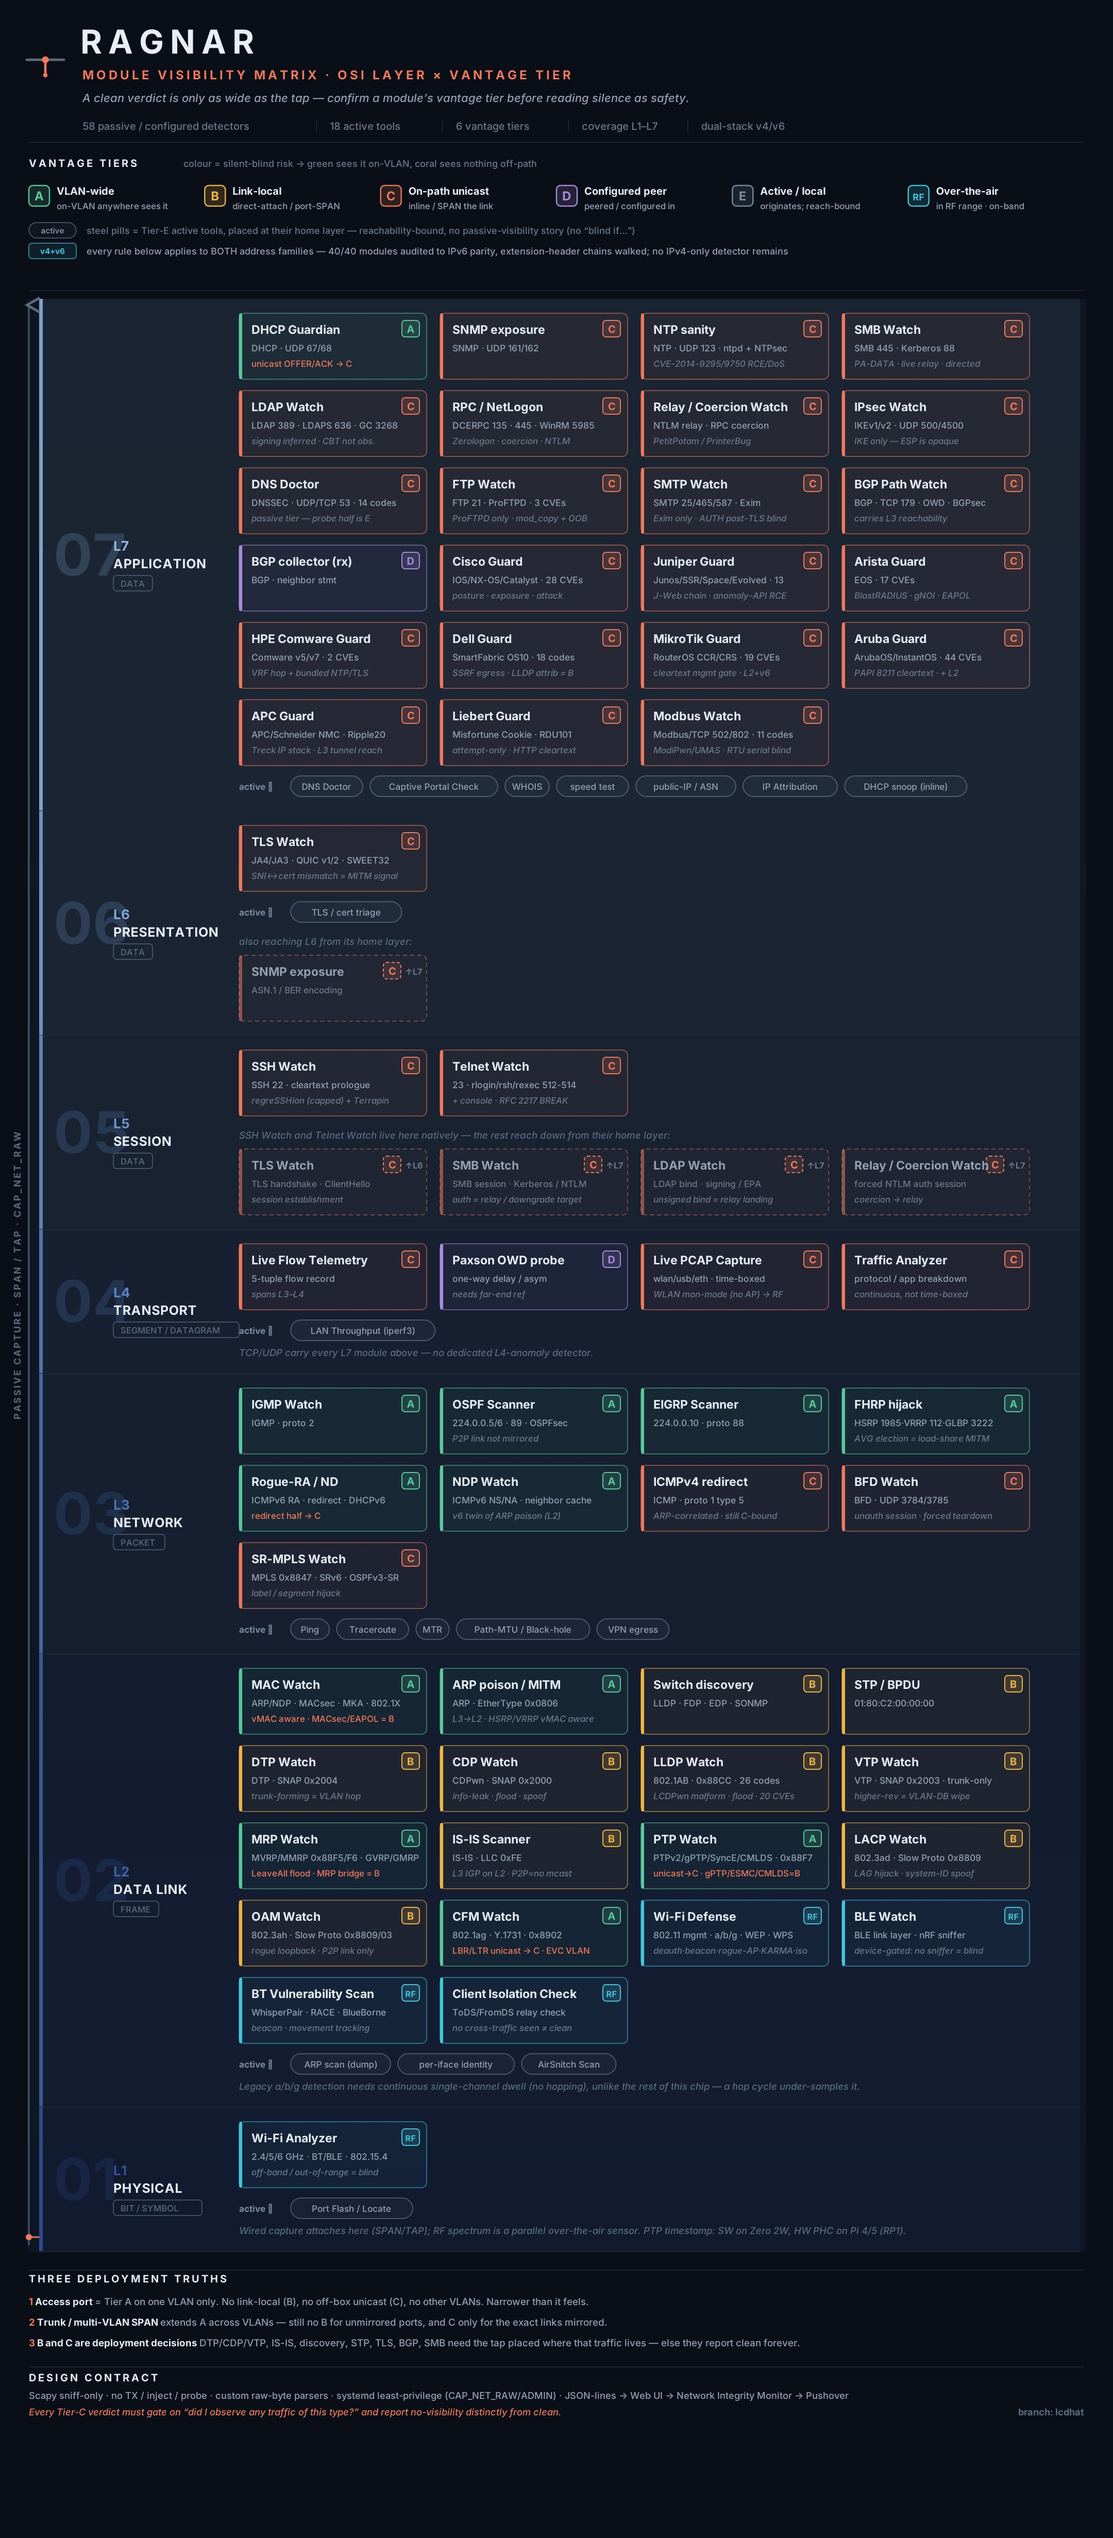
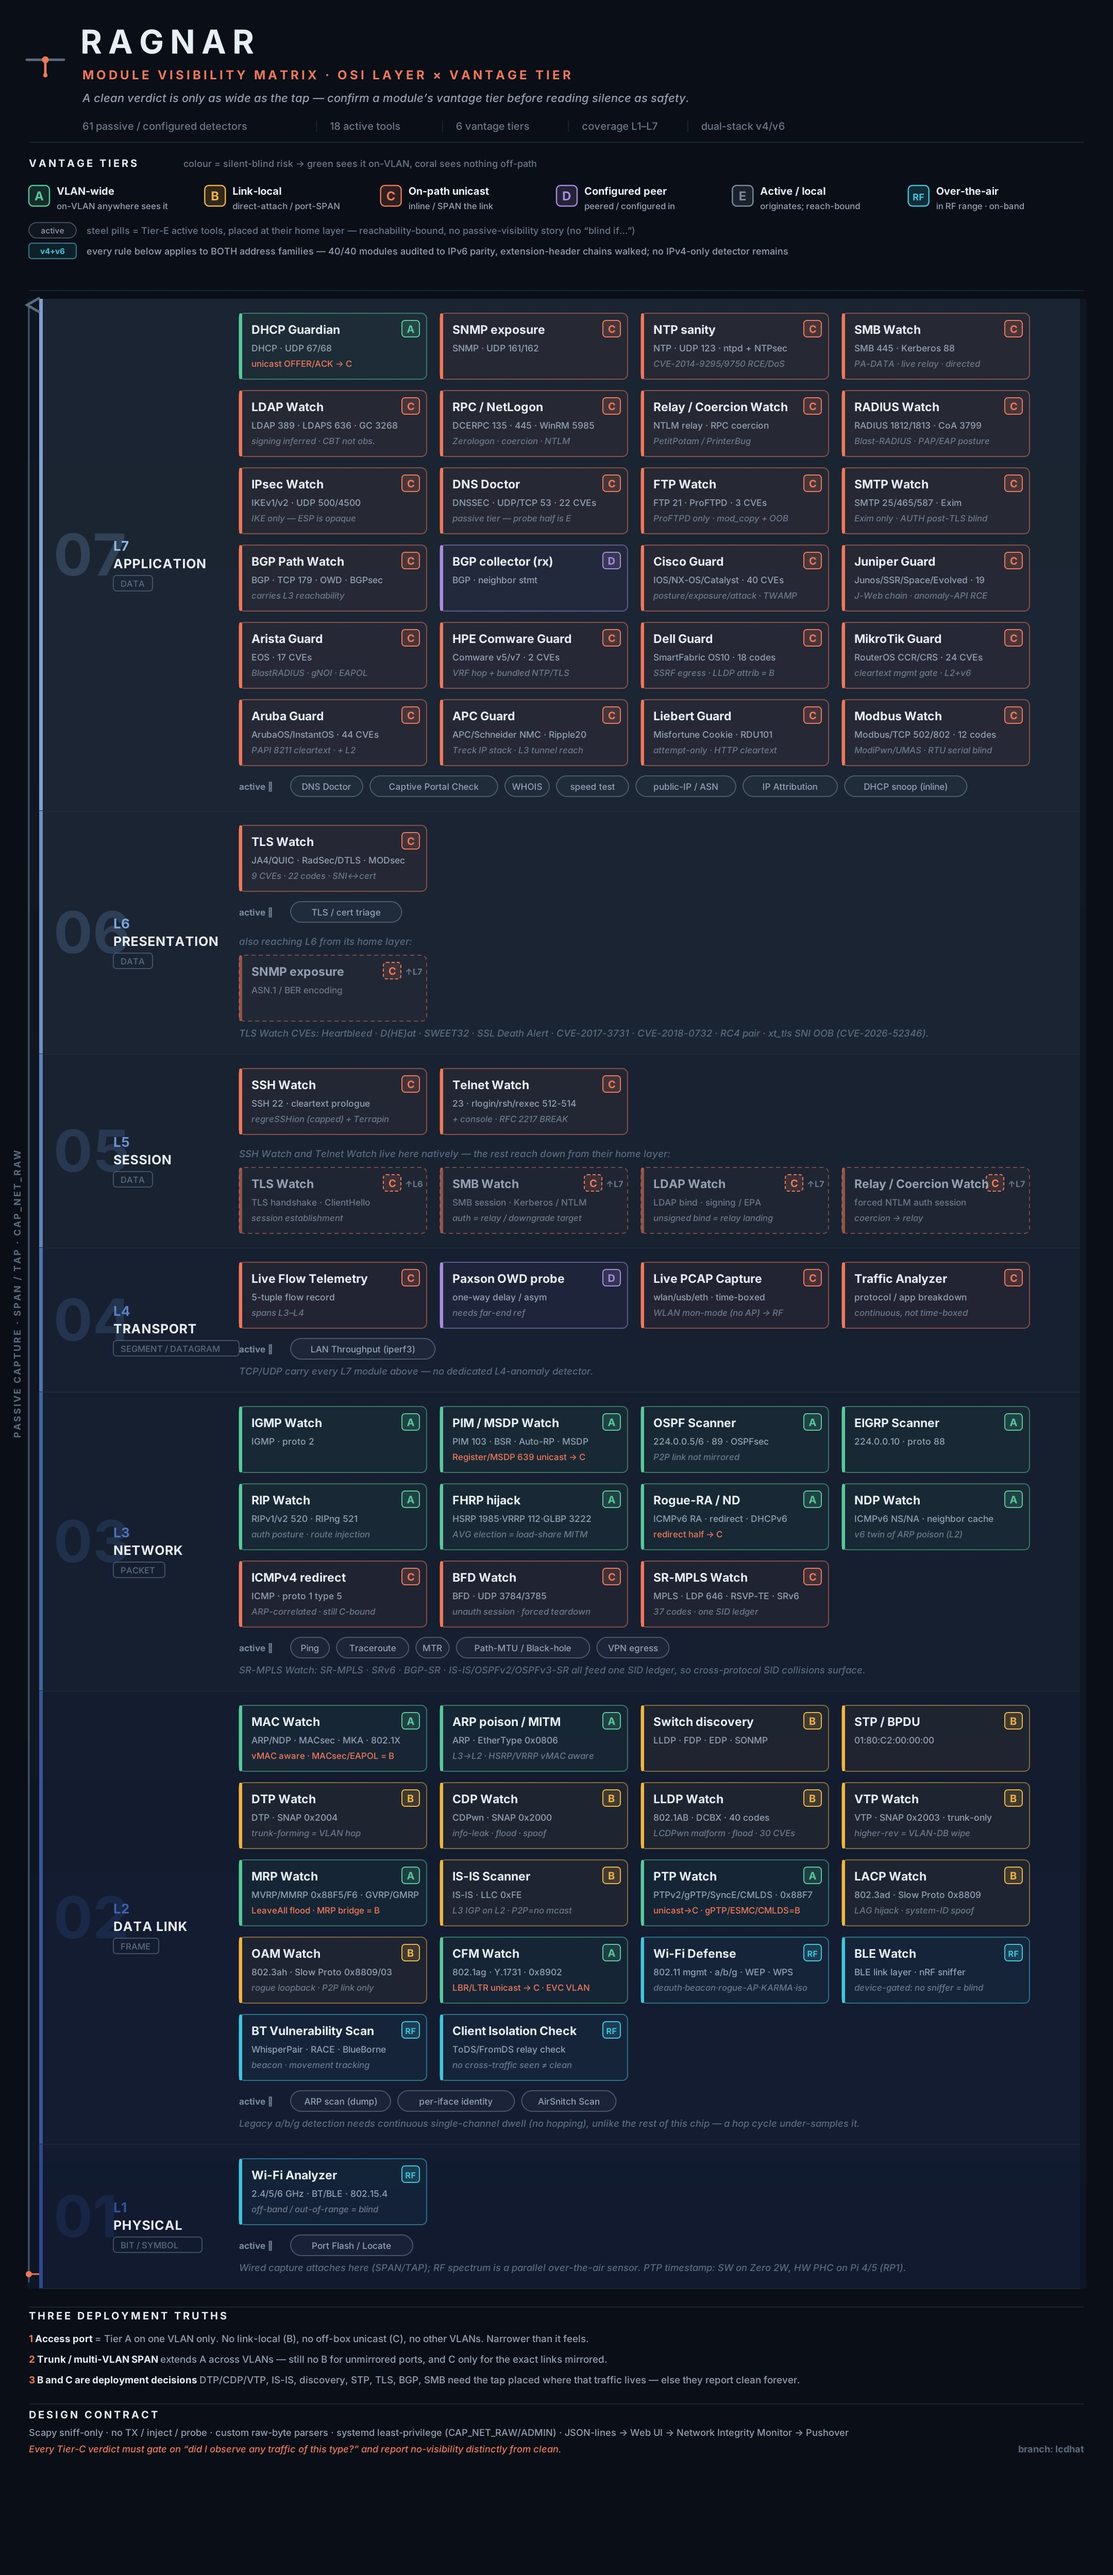
docs(net): refresh OSI visibility matrix graphic (current module set)
Update the Module visibility matrix reference (OSI layer x vantage tier) to the
current module set: new full image (web/images/osi/matrix_full.jpg), all seven
per-layer bands (matrix_l1..l7.jpg) re-sliced from it, and the docs copy
(docs/ragnar_osi_visibility_matrix.jpg). Image cache-bust bumped to
?v=20261018-mikrotik-v3 across the Overview card and every layer panel.

diff --git a/web/index_modern.html b/web/index_modern.html
@@ -1886,8 +1886,8 @@
                         <!-- Visibility matrix reference (overview) -->
                         <details class="glass rounded-xl p-3 sm:p-4 md:col-span-2" ontoggle="netMatrixLoad(this)">
                             <summary class="cursor-pointer select-none text-sm font-semibold text-gray-300 hover:text-white">Module visibility matrix <span class="text-xs font-normal text-gray-500">— reference guide · every module by OSI layer × vantage tier</span></summary>
-                            <a href="/web/images/osi/matrix_full.jpg?v=20261016-pim-msdp-igmp-v5" target="_blank" rel="noopener" title="Open the full matrix">
-                                <img data-src="/web/images/osi/matrix_full.jpg?v=20261016-pim-msdp-igmp-v5" alt="Ragnar module visibility matrix: every module by OSI layer and vantage tier" class="block w-full h-auto rounded-lg mt-3">
+                            <a href="/web/images/osi/matrix_full.jpg?v=20261018-mikrotik-v3" target="_blank" rel="noopener" title="Open the full matrix">
+                                <img data-src="/web/images/osi/matrix_full.jpg?v=20261018-mikrotik-v3" alt="Ragnar module visibility matrix: every module by OSI layer and vantage tier" class="block w-full h-auto rounded-lg mt-3">
                             </a>
                             <p class="text-xs text-gray-500 mt-2">A clean verdict is only as wide as the tap: check a module's vantage tier before reading silence as safety. Each layer button above shows its own band of this matrix. Card letters are the vantage tier: <strong>A</strong> VLAN-wide · <strong>B</strong> link-local · <strong>C</strong> on-path unicast · <strong>D</strong> configured peer · <strong>E</strong> active / local · <strong>RF</strong> over-the-air. Tap the image to open it full-size.</p>
                         </details>
@@ -2019,8 +2019,8 @@
                         <!-- Visibility matrix reference (l7) -->
                         <details class="glass rounded-xl p-3 sm:p-4 md:col-span-2" ontoggle="netMatrixLoad(this)">
                             <summary class="cursor-pointer select-none text-sm font-semibold text-gray-300 hover:text-white">Visibility matrix · L7 Application <span class="text-xs font-normal text-gray-500">— what a tap must see for each module here</span></summary>
-                            <a href="/web/images/osi/matrix_full.jpg?v=20261016-pim-msdp-igmp-v5" target="_blank" rel="noopener" title="Open the full matrix">
-                                <img data-src="/web/images/osi/matrix_l7.jpg?v=20261016-pim-msdp-igmp-v5" alt="Module visibility matrix, L7 Application band" class="block w-full h-auto rounded-lg mt-3">
+                            <a href="/web/images/osi/matrix_full.jpg?v=20261018-mikrotik-v3" target="_blank" rel="noopener" title="Open the full matrix">
+                                <img data-src="/web/images/osi/matrix_l7.jpg?v=20261018-mikrotik-v3" alt="Module visibility matrix, L7 Application band" class="block w-full h-auto rounded-lg mt-3">
                             </a>
                             <p class="text-xs text-gray-500 mt-2">Card letters are the vantage tier: <strong>A</strong> VLAN-wide · <strong>B</strong> link-local · <strong>C</strong> on-path unicast · <strong>D</strong> configured peer · <strong>E</strong> active / local · <strong>RF</strong> over-the-air. Tap the image for the full matrix (all layers).</p>
                         </details>
@@ -2537,8 +2537,8 @@
                         <!-- Visibility matrix reference (l6) -->
                         <details class="glass rounded-xl p-3 sm:p-4 md:col-span-2" ontoggle="netMatrixLoad(this)">
                             <summary class="cursor-pointer select-none text-sm font-semibold text-gray-300 hover:text-white">Visibility matrix · L6 Presentation <span class="text-xs font-normal text-gray-500">— what a tap must see for each module here</span></summary>
-                            <a href="/web/images/osi/matrix_full.jpg?v=20261016-pim-msdp-igmp-v5" target="_blank" rel="noopener" title="Open the full matrix">
-                                <img data-src="/web/images/osi/matrix_l6.jpg?v=20261016-pim-msdp-igmp-v5" alt="Module visibility matrix, L6 Presentation band" class="block w-full h-auto rounded-lg mt-3">
+                            <a href="/web/images/osi/matrix_full.jpg?v=20261018-mikrotik-v3" target="_blank" rel="noopener" title="Open the full matrix">
+                                <img data-src="/web/images/osi/matrix_l6.jpg?v=20261018-mikrotik-v3" alt="Module visibility matrix, L6 Presentation band" class="block w-full h-auto rounded-lg mt-3">
                             </a>
                             <p class="text-xs text-gray-500 mt-2">Card letters are the vantage tier: <strong>A</strong> VLAN-wide · <strong>B</strong> link-local · <strong>C</strong> on-path unicast · <strong>D</strong> configured peer · <strong>E</strong> active / local · <strong>RF</strong> over-the-air. Tap the image for the full matrix (all layers).</p>
                         </details>
@@ -2589,8 +2589,8 @@
                         <!-- Visibility matrix reference (l5) -->
                         <details class="glass rounded-xl p-3 sm:p-4 md:col-span-2" ontoggle="netMatrixLoad(this)">
                             <summary class="cursor-pointer select-none text-sm font-semibold text-gray-300 hover:text-white">Visibility matrix · L5 Session <span class="text-xs font-normal text-gray-500">— what a tap must see for each module here</span></summary>
-                            <a href="/web/images/osi/matrix_full.jpg?v=20261016-pim-msdp-igmp-v5" target="_blank" rel="noopener" title="Open the full matrix">
-                                <img data-src="/web/images/osi/matrix_l5.jpg?v=20261016-pim-msdp-igmp-v5" alt="Module visibility matrix, L5 Session band" class="block w-full h-auto rounded-lg mt-3">
+                            <a href="/web/images/osi/matrix_full.jpg?v=20261018-mikrotik-v3" target="_blank" rel="noopener" title="Open the full matrix">
+                                <img data-src="/web/images/osi/matrix_l5.jpg?v=20261018-mikrotik-v3" alt="Module visibility matrix, L5 Session band" class="block w-full h-auto rounded-lg mt-3">
                             </a>
                             <p class="text-xs text-gray-500 mt-2">Card letters are the vantage tier: <strong>A</strong> VLAN-wide · <strong>B</strong> link-local · <strong>C</strong> on-path unicast · <strong>D</strong> configured peer · <strong>E</strong> active / local · <strong>RF</strong> over-the-air. Tap the image for the full matrix (all layers).</p>
                         </details>
@@ -2634,8 +2634,8 @@
                         <!-- Visibility matrix reference (l4) -->
                         <details class="glass rounded-xl p-3 sm:p-4 md:col-span-2" ontoggle="netMatrixLoad(this)">
                             <summary class="cursor-pointer select-none text-sm font-semibold text-gray-300 hover:text-white">Visibility matrix · L4 Transport <span class="text-xs font-normal text-gray-500">— what a tap must see for each module here</span></summary>
-                            <a href="/web/images/osi/matrix_full.jpg?v=20261016-pim-msdp-igmp-v5" target="_blank" rel="noopener" title="Open the full matrix">
-                                <img data-src="/web/images/osi/matrix_l4.jpg?v=20261016-pim-msdp-igmp-v5" alt="Module visibility matrix, L4 Transport band" class="block w-full h-auto rounded-lg mt-3">
+                            <a href="/web/images/osi/matrix_full.jpg?v=20261018-mikrotik-v3" target="_blank" rel="noopener" title="Open the full matrix">
+                                <img data-src="/web/images/osi/matrix_l4.jpg?v=20261018-mikrotik-v3" alt="Module visibility matrix, L4 Transport band" class="block w-full h-auto rounded-lg mt-3">
                             </a>
                             <p class="text-xs text-gray-500 mt-2">Card letters are the vantage tier: <strong>A</strong> VLAN-wide · <strong>B</strong> link-local · <strong>C</strong> on-path unicast · <strong>D</strong> configured peer · <strong>E</strong> active / local · <strong>RF</strong> over-the-air. Tap the image for the full matrix (all layers).</p>
                         </details>
@@ -2681,8 +2681,8 @@
                         <!-- Visibility matrix reference (l3) -->
                         <details class="glass rounded-xl p-3 sm:p-4 md:col-span-2" ontoggle="netMatrixLoad(this)">
                             <summary class="cursor-pointer select-none text-sm font-semibold text-gray-300 hover:text-white">Visibility matrix · L3 Network <span class="text-xs font-normal text-gray-500">— what a tap must see for each module here</span></summary>
-                            <a href="/web/images/osi/matrix_full.jpg?v=20261016-pim-msdp-igmp-v5" target="_blank" rel="noopener" title="Open the full matrix">
-                                <img data-src="/web/images/osi/matrix_l3.jpg?v=20261016-pim-msdp-igmp-v5" alt="Module visibility matrix, L3 Network band" class="block w-full h-auto rounded-lg mt-3">
+                            <a href="/web/images/osi/matrix_full.jpg?v=20261018-mikrotik-v3" target="_blank" rel="noopener" title="Open the full matrix">
+                                <img data-src="/web/images/osi/matrix_l3.jpg?v=20261018-mikrotik-v3" alt="Module visibility matrix, L3 Network band" class="block w-full h-auto rounded-lg mt-3">
                             </a>
                             <p class="text-xs text-gray-500 mt-2">Card letters are the vantage tier: <strong>A</strong> VLAN-wide · <strong>B</strong> link-local · <strong>C</strong> on-path unicast · <strong>D</strong> configured peer · <strong>E</strong> active / local · <strong>RF</strong> over-the-air. Tap the image for the full matrix (all layers).</p>
                         </details>
@@ -2925,8 +2925,8 @@
                         <!-- Visibility matrix reference (l2) -->
                         <details class="glass rounded-xl p-3 sm:p-4 md:col-span-2" ontoggle="netMatrixLoad(this)">
                             <summary class="cursor-pointer select-none text-sm font-semibold text-gray-300 hover:text-white">Visibility matrix · L2 Data Link <span class="text-xs font-normal text-gray-500">— what a tap must see for each module here</span></summary>
-                            <a href="/web/images/osi/matrix_full.jpg?v=20261016-pim-msdp-igmp-v5" target="_blank" rel="noopener" title="Open the full matrix">
-                                <img data-src="/web/images/osi/matrix_l2.jpg?v=20261016-pim-msdp-igmp-v5" alt="Module visibility matrix, L2 Data Link band" class="block w-full h-auto rounded-lg mt-3">
+                            <a href="/web/images/osi/matrix_full.jpg?v=20261018-mikrotik-v3" target="_blank" rel="noopener" title="Open the full matrix">
+                                <img data-src="/web/images/osi/matrix_l2.jpg?v=20261018-mikrotik-v3" alt="Module visibility matrix, L2 Data Link band" class="block w-full h-auto rounded-lg mt-3">
                             </a>
                             <p class="text-xs text-gray-500 mt-2">Card letters are the vantage tier: <strong>A</strong> VLAN-wide · <strong>B</strong> link-local · <strong>C</strong> on-path unicast · <strong>D</strong> configured peer · <strong>E</strong> active / local · <strong>RF</strong> over-the-air. Tap the image for the full matrix (all layers).</p>
                         </details>
@@ -3231,8 +3231,8 @@
                         <!-- Visibility matrix reference (l1) -->
                         <details class="glass rounded-xl p-3 sm:p-4 md:col-span-2" ontoggle="netMatrixLoad(this)">
                             <summary class="cursor-pointer select-none text-sm font-semibold text-gray-300 hover:text-white">Visibility matrix · L1 Physical <span class="text-xs font-normal text-gray-500">— what a tap must see for each module here</span></summary>
-                            <a href="/web/images/osi/matrix_full.jpg?v=20261016-pim-msdp-igmp-v5" target="_blank" rel="noopener" title="Open the full matrix">
-                                <img data-src="/web/images/osi/matrix_l1.jpg?v=20261016-pim-msdp-igmp-v5" alt="Module visibility matrix, L1 Physical band" class="block w-full h-auto rounded-lg mt-3">
+                            <a href="/web/images/osi/matrix_full.jpg?v=20261018-mikrotik-v3" target="_blank" rel="noopener" title="Open the full matrix">
+                                <img data-src="/web/images/osi/matrix_l1.jpg?v=20261018-mikrotik-v3" alt="Module visibility matrix, L1 Physical band" class="block w-full h-auto rounded-lg mt-3">
                             </a>
                             <p class="text-xs text-gray-500 mt-2">Card letters are the vantage tier: <strong>A</strong> VLAN-wide · <strong>B</strong> link-local · <strong>C</strong> on-path unicast · <strong>D</strong> configured peer · <strong>E</strong> active / local · <strong>RF</strong> over-the-air. Tap the image for the full matrix (all layers).</p>
                         </details>

diff --git a/docs/releases.md b/docs/releases.md
@@ -13,7 +13,8 @@
 - **Two further v3 CVEs are routed, not duplicated here:** the **xt_tls SNI `host_name` over-read** (CVE-2026-52346 → **TLS Watch**) and the **labelled-VPN MP_REACH NLRI** under-flow (CVE-2026-93345 → **BGP Path Watch**), each handled where the decoder already lives. `MTK-C02` / `MTK-C03` remain deferred (cross-flow / cross-time correlations; `MTK-C02` also needs the unported `MTK-018`).
 - **CVE index +3 named / +3 detected → 399 named / 339 detected.** CVE-2026-56719, CVE-2026-89028 and CVE-2026-84411 all attribute to **MikroTik Guard** (all 2026, so the 2026 tally is 52 → 55); context (51) unchanged. CREDITS.md / README.md counts synced.
 - **Self-test:** the `mikrotik_guard` suite grows **27 → 46** scenarios — MTK-022 well-formed / minimal-crafted / under-flow-only / not-`uniPwdLen`→`MTK-002` / WordCount-12 gate / snaplen-truncation-no-FP, and MTK-023 six malformation cases + a well-formed FP guard + the MNDP version posture + a patched-version negative + registry wiring. Aggregate `do_routing_selftest` **59 suites**, all green.
-- **Docs:** [nettools.md › MikroTik Guard](nettools.md#mikrotik-switch-and-router-guard).
+- **Visibility matrix refresh.** The *Module visibility matrix* reference graphic (OSI layer × vantage tier) is updated to the current module set — the full image (`web/images/osi/matrix_full.jpg`), all seven per-layer bands (`matrix_l1…l7.jpg`) re-sliced from it, and the docs copy (`docs/ragnar_osi_visibility_matrix.jpg`); image cache-bust bumped to `?v=20261018-mikrotik-v3`.
+- **Docs:** [nettools.md › MikroTik Guard](nettools.md#mikrotik-switch-and-router-guard), [nettools.md › Module visibility matrix](nettools.md#module-visibility-matrix).
 - *Note: PR number is a prediction. This branch and `feature/tls-watch-v9` both branch off `main`; whichever merges second will need a trivial reconcile on `docs/releases.md` and the CVE-count lines in `README.md` / `docs/CREDITS.md`.*
 
 ### 2026-10-17
